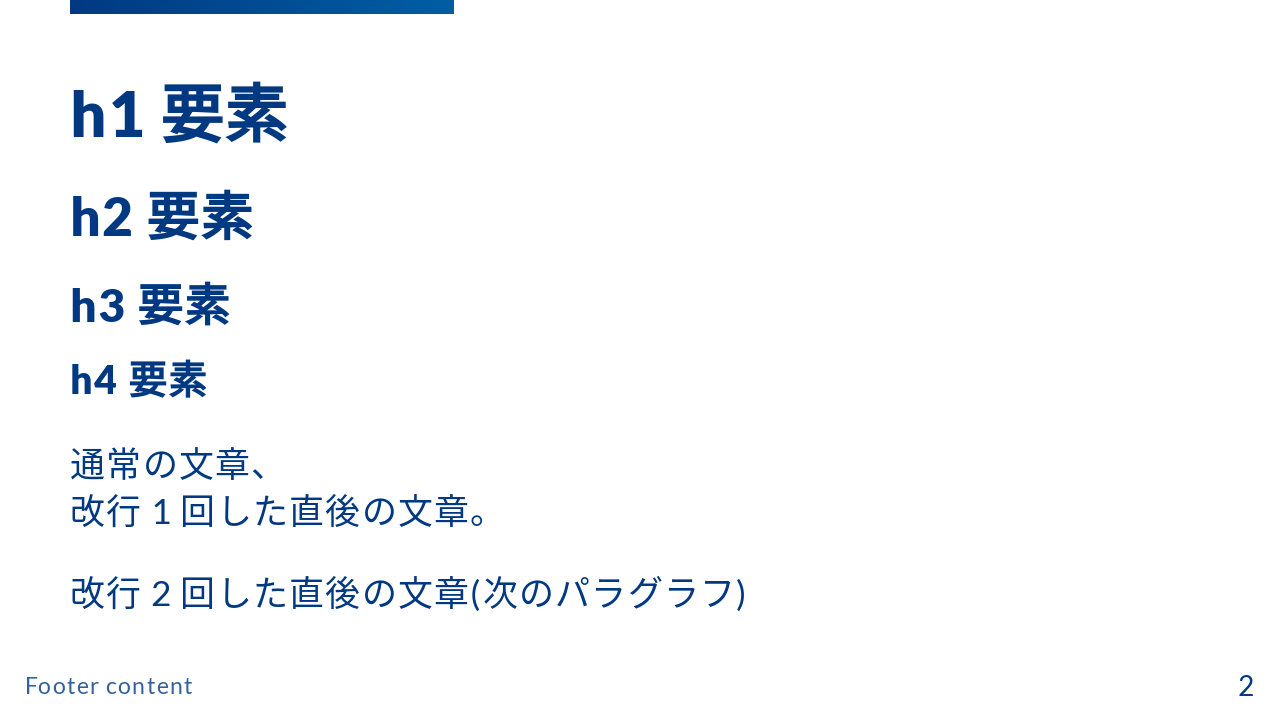
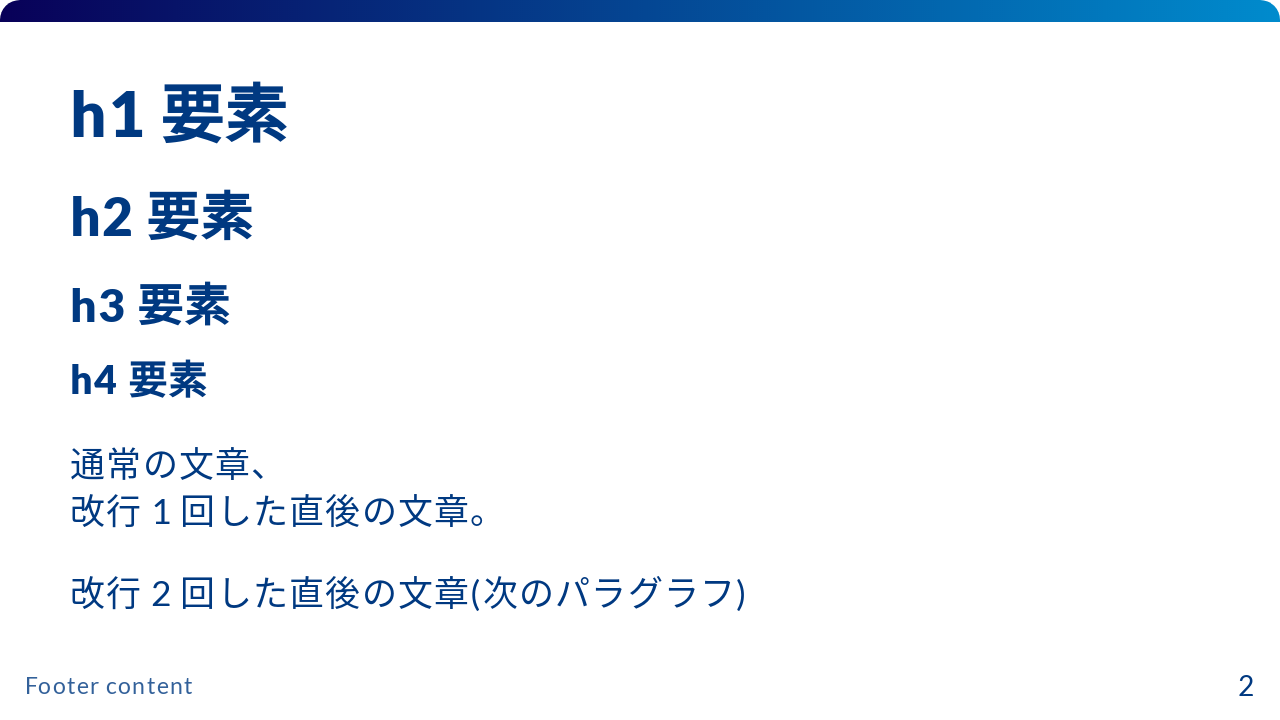
とてもおしゃれになってきた

Changed region(s): [[0.0, 0.0, 1.0, 0.0306]]

diff --git a/marp-themes/speee.scss b/marp-themes/speee.scss
@@ -185,10 +185,11 @@ footer {
 section:not(.lead):before {
   position: absolute;
   top: 0px;
-  width: calc(30%);
-  height: calc(2%);
+  left: 0px;
+  width: calc(100%);
+  height: calc(3%);
   content: "";
-  background: linear-gradient(90deg, $color-dark, $color-lighter-dark);
+  background: linear-gradient(90deg, #080058, #008bcd);
 }
 
 section {
@@ -272,7 +273,7 @@ section {
 
   &.lead {
     @include color-scheme($color-dark, $color-light, $color-inverted-highlight);
-    background: linear-gradient(90deg, $color-dark, $color-lighter-dark);
+    background: linear-gradient(115deg, #080058, #008bcd);
 
     display: flex;
     flex-direction: column;

diff --git a/marp-themes/speee.css b/marp-themes/speee.css
@@ -164,10 +164,11 @@ footer {
 section:not(.lead):before {
   position: absolute;
   top: 0px;
-  width: 30%;
-  height: 2%;
+  left: 0px;
+  width: 100%;
+  height: 3%;
   content: "";
-  background: linear-gradient(90deg, #003981, #005ea5);
+  background: linear-gradient(90deg, #080058, #008bcd);
 }
 
 section {
@@ -241,7 +242,7 @@ section.lead {
   --color-foreground: white;
   --color-dimmed: #ccd7e6;
   --color-highlight: #81d4fa;
-  background: linear-gradient(90deg, #003981, #005ea5);
+  background: linear-gradient(115deg, #080058, #008bcd);
   display: flex;
   flex-direction: column;
   flex-wrap: nowrap;
